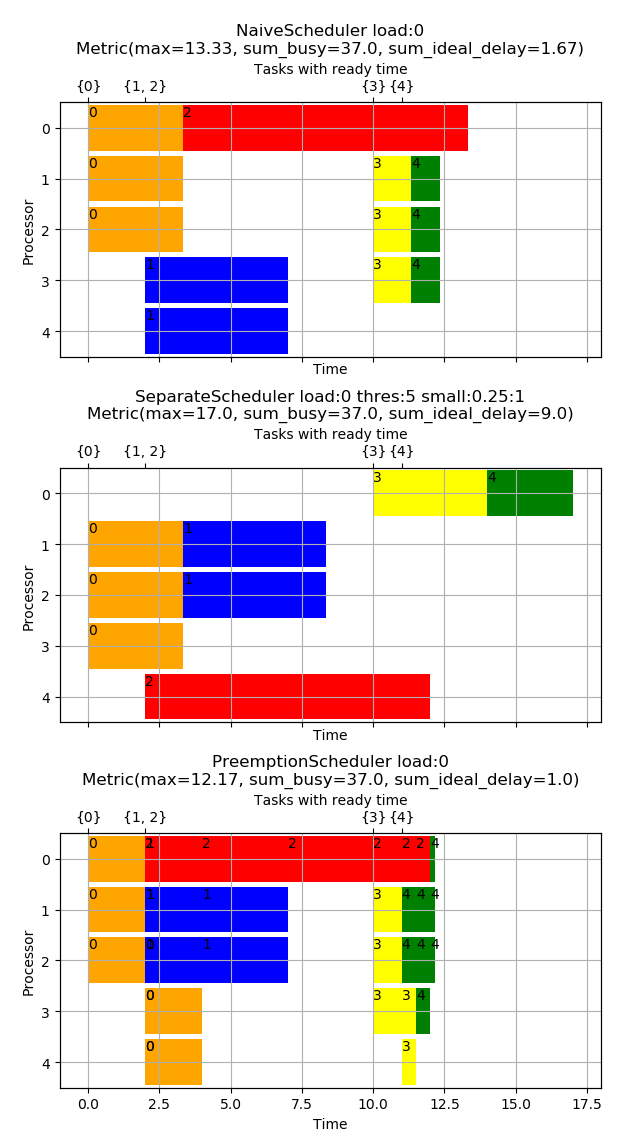
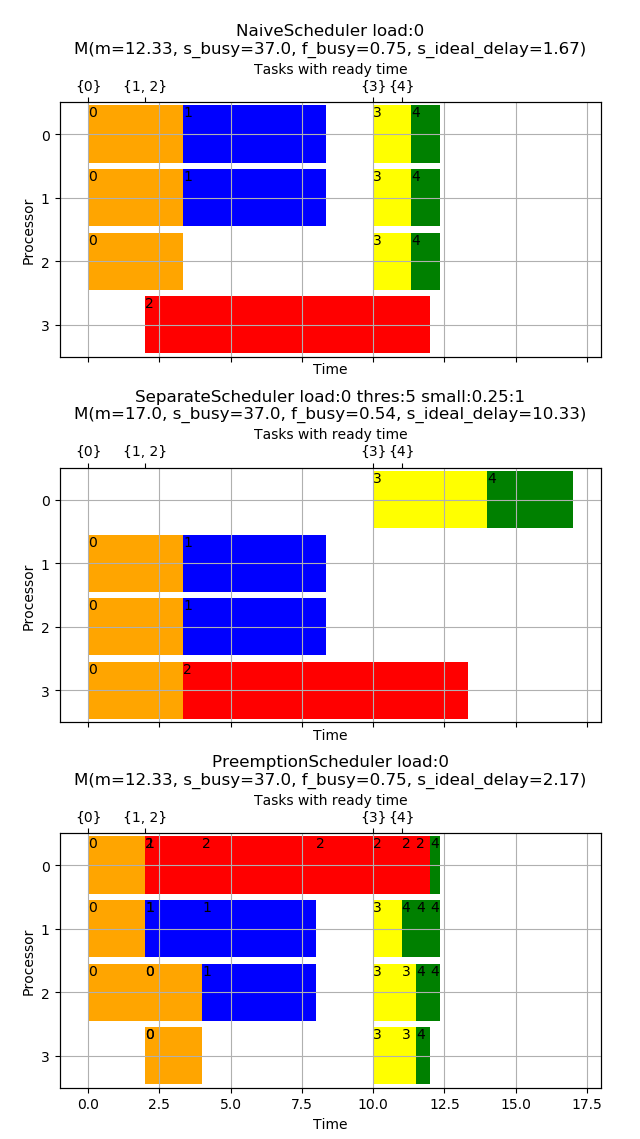
fix generator and add metric

diff --git a/metrics.py b/metrics.py
@@ -6,14 +6,15 @@ from models import Procesor, Task
 
 class Metrics:
 
-    def __init__(self, max_end: float, sum_of_procesor_busy: float, sum_of_ideal_delay: float):
+    def __init__(self, max_end: float, sum_of_procesor_busy: float, busy_fraction: float, sum_of_ideal_delay: float):
         self.max_end = max_end
         self.sum_of_procesor_busy = sum_of_procesor_busy
+        self.busy_fraction = busy_fraction
         self.sum_of_ideal_delay = sum_of_ideal_delay
 
     def __str__(self):
-        return f"Metric(max={round(self.max_end, 2)}, sum_busy={round(self.sum_of_procesor_busy, 2)}, " \
-               f"sum_ideal_delay={round(self.sum_of_ideal_delay, 2)})"
+        return f"M(m={round(self.max_end, 2)}, s_busy={round(self.sum_of_procesor_busy, 2)}, " \
+               f"f_busy={round(self.busy_fraction, 2)}, s_ideal_delay={round(self.sum_of_ideal_delay, 2)})"
 
 
 def _get_end_of_tasks(scheduling: List[Procesor]) -> DefaultDict[Task, float]:
@@ -40,6 +41,10 @@ def get_sum_of_procesor_busy(scheduling: List[Procesor]) -> float:
     return result
 
 
+def get_busy_fraction(scheduling: List[Procesor]) -> float:
+    return get_sum_of_procesor_busy(scheduling) / (len(scheduling) * get_max_end(scheduling))
+
+
 def get_sum_of_ideal_delay(scheduling: List[Procesor]) -> float:
     task_end = _get_end_of_tasks(scheduling)
     result = sum((end - t.ready - t.calc_length(len(scheduling))) for t, end in task_end.items())
@@ -49,4 +54,5 @@ def get_sum_of_ideal_delay(scheduling: List[Procesor]) -> float:
 def get_metrics(scheduling: List[Procesor]) -> Metrics:
     return Metrics(get_max_end(scheduling),
                    get_sum_of_procesor_busy(scheduling),
+                   get_busy_fraction(scheduling),
                    get_sum_of_ideal_delay(scheduling))

diff --git a/generator.py b/generator.py
@@ -12,27 +12,29 @@ class Generator:
                  min_max_resources: Tuple[int, int],
                  # bimodal distribution of base length of task
                  min_max_small: Tuple[int, int], min_max_big: Tuple[int, int], p_of_big: float,
+                 # normal distribution of time spaces between tasks
+                 mean_std_time_spaces: Tuple[float, float],
                  length_function: Callable[['Task', int], float],
-                 std_function=np.sqrt, print_plots=False):
+                 print_plots=False):
         self.n = n
         self.min_max_resources = min_max_resources
         self.min_max_small = min_max_small
         self.min_max_big = min_max_big
         self.p_of_big = p_of_big
-        self.std_function = std_function
+        self.mean_std_time_spaces = mean_std_time_spaces
         self.length_function = length_function
         self.print_plots = print_plots
 
     def generate(self):
         base_lengths = [int(self._bimodal()) for _ in range(self.n)]
-        mean = np.mean(base_lengths)
 
-        time_spaces = np.random.normal(mean, self.std_function(mean), self.n)
+        mean_time_spaces, std_time_spaces = self.mean_std_time_spaces
+        time_spaces = np.random.normal(mean_time_spaces, std_time_spaces, self.n)
         time = []
         clock = 0
         for space in time_spaces:
             time.append(clock)
-            clock += space
+            clock += abs(space)
 
         if self.print_plots:
             self._print_plot(base_lengths, time_spaces)

diff --git a/main.py b/main.py
@@ -12,6 +12,16 @@ def cost_function(task: Task, n: int):
 
 if __name__ == '__main__':
     print("Start")
+    # generator = Generator(10000, (1, 10),
+    #                       (1, 1000), (5000, 6000), 0.1,
+    #                       (500, 50),
+    #                       lambda z, n: z.base_length / n, print_plots=True)
+    # tasks = generator.generate()
+    #
+    # for t in tasks[:10]:
+    #     print(t)
+    #     print(t.calc_length(3))
+
     instance = [
         Task(0, 0, 1, 3, 10, cost_function),
         Task(1, 2, 1, 2, 10, cost_function),
@@ -29,12 +39,3 @@ if __name__ == '__main__':
     scheduler3 = PreemptionScheduler()
     scheduler3.schedule(n_proc, instance)
     print_schedulings(instance, [scheduler, scheduler2, scheduler3], "gantt.png")
-
-    # generator = Generator(10000, (1, 10),
-    #                       (1, 1000), (5000, 6000), 0.1,
-    #                       lambda z, n: z.base_length / n, std_function=lambda x: x * 0.05, print_plots=True)
-    # tasks = generator.generate()
-    #
-    # for t in tasks[:10]:
-    #     print(t)
-    #     print(t.calc_length(3))
